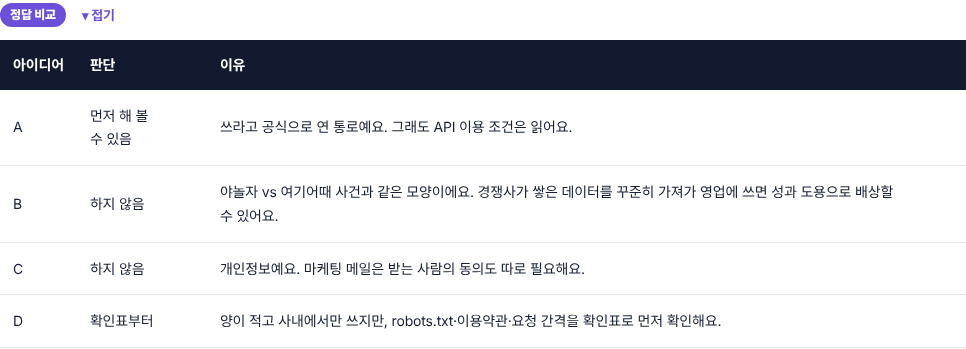
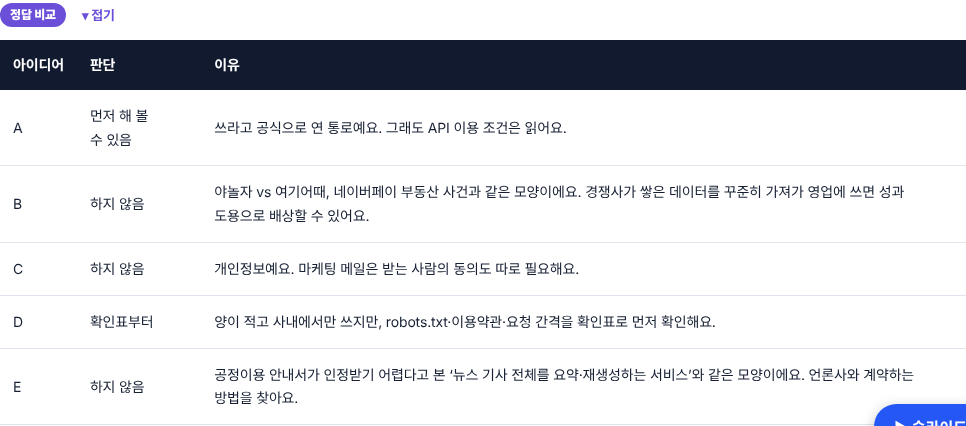
3주차 DAY2 1-2: 후속 판례(네이버페이 부동산·진학사-텐덤)와 공정이용 안내서 추가
Claude-Session: https://claude.ai/code/session_01C4uqyDbkmmtNJuE6af8rvj

diff --git a/261109-ai-pm-week3/d2-web-crawling.html b/261109-ai-pm-week3/d2-web-crawling.html
@@ -422,12 +422,22 @@ aside nav a.active{border-left-color:var(--blue)}
 <p class="source-note">형사: 대법원 2022. 5. 12. 선고 2021도1533 판결(무죄 확정). 민사: 서울중앙지방법원 2021. 8. 19. 1심 10억 원 배상 → 서울고등법원 2022. 8. 25. 2심도 배상 유지(2심은 1심의 복제 금지 명령은 취소). 민사 판결이 쓴 조항은 당시 부정경쟁방지법 제2조 제1호 (카)목이에요. 2022년 4월 법 개정으로 이 조항은 지금 (파)목으로 옮겨졌어요.</p>
 <div class="notice"><b>기억할 것</b><br/>형사에서 무죄라고 "해도 되는 일"이 되는 것은 아니에요. 경쟁사가 돈과 노력을 들여 쌓은 데이터를 가져다 내 영업에 쓰면, 민사에서 큰돈을 물어 줄 수 있어요.</div>
 
+<h4>그 뒤의 판례와 안내서: 기준이 더 분명해졌어요</h4>
+<p>여기어때 사건 뒤에도 비슷한 다툼이 이어졌어요. 그 결과 "공개된 사실이니까 괜찮다"는 생각만으로는 부족하다는 것이 더 분명해졌어요.</p>
+<div class="table-wrap"><table>
+<tr><th>시점</th><th>사건 · 문서</th><th>무엇을 판단했나</th><th>기획자에게 주는 뜻</th></tr>
+<tr><td>2025. 12.</td><td><b>네이버페이 부동산 vs 다윈중개</b><br/>(특허법원 2심, 민사)</td><td>다윈중개가 네이버페이 부동산의 매물 정보(가격·면적 등 12개 항목)를 약 4년 동안 주기적으로 모아 약 850개 단지, 25만 건을 자기 사이트에 올렸어요. 법원은 네이버 쪽이 매물을 모으고 허위 매물을 걸러 내는 데 큰 투자를 했다며 <b>데이터베이스제작자의 권리 침해</b>를 인정했어요. 배상액은 1심 7,000만 원에서 2심 <b>8,000만 원</b>으로 올랐고, 서버에 저장한 정보를 지우라는 명령도 나왔어요. 사이트 이용약관의 자동 수집 금지 조항도 판단에 고려했어요.</td><td>가격·면적 같은 숫자도 남이 투자해서 쌓은 데이터베이스를 꾸준히 옮겨 오면 권리 침해가 될 수 있어요. 여기어때 사건(일부 항목, 형사 무죄)과 달리, 이 사건은 양이 많고 오래 반복되었어요.</td></tr>
+<tr><td>2026. 2. 26.</td><td><b>「생성형 인공지능의 저작물 학습에 대한 저작권법상 ‘공정이용’ 안내서」</b><br/>(문화체육관광부·한국저작권위원회)</td><td>AI 학습에 남의 글을 쓸 때 공정이용인지 보는 기준이에요. 뉴스 기사 전체를 요약하거나 다시 만들어 주는 서비스는 공정이용으로 인정받기 어려운 쪽이에요. robots.txt로 막은 글을 모으거나, 로그인·유료로 막은 글을 허락 없이 모은 경우도 불리해요. 반대로 통계처럼 사실을 전하는 자료는 유리하게 봐요.</td><td>모은 글을 AI로 요약해 우리 화면에 다시 보여 주는 기능은 위험해요. 6세션에서 클로드로 모을 때도, 결과를 서비스 화면에 그대로 쓰는지 사내 분석에만 쓰는지 먼저 정해요. 안내서는 법이 아니라 참고 기준이에요.</td></tr>
+<tr><td>2026. 7. 9.</td><td><b>진학사 vs 텐덤 (대학 리뷰 데이터)</b><br/>(대법원, 민사)</td><td>업무 협약으로 받은 대학 리뷰 데이터를 협약 목적 밖으로 썼는지 다툰 사건이에요. 대법원은 노력과 비용을 들여 모은 <b>리뷰 데이터는 부정경쟁방지법이 지키는 ‘성과’</b>라고 봤어요. 하지만 상대 서비스에 그 리뷰가 실제로 쓰였다는 증거가 없어서, 책임을 인정한 2심 판결을 다시 판단하라고 돌려보냈어요. 흔한 방식으로 만든 API는 성과로 보지 않았어요.</td><td>상대가 투자해서 만든 데이터인지가 핵심이에요. 거꾸로 우리 데이터를 지키려면, 데이터를 모으는 데 쓴 비용·노력과 남이 가져다 쓴 흔적을 기록해 두어야 해요.</td></tr>
+</table></div>
+<p class="source-note">출처: 특허법원 2025. 12. 24. 선고 2024나11433 판결(<a href="https://file.scourt.go.kr/dcboard/1779236599426_092319.pdf" target="_blank" rel="noopener">법원 공개 판결문</a>, 원심 서울중앙지방법원 2022가합528041) · 법률신문 <a href="https://www.lawtimes.co.kr/news/articleView.html?idxno=228179" target="_blank" rel="noopener">대학 리뷰 데이터 무단 사용의 증명책임</a>(대법원 2026. 7. 9. 선고 2023다290355, 290362 판결 평석) · 법무법인 화우 <a href="https://www.hwawoo.com/kor/insights/newsletter/14627" target="_blank" rel="noopener">문체부 생성형 AI 공정이용 안내서 해설</a>(뉴스 기사 전체 요약·재생성 서비스, robots.txt로 금지된 저작물 무단 수집) (2026.11.10 확인)</p>
+
 <h4>크롤링과 관련된 법, 한 표로 보기</h4>
 <p>기획자는 법 조문을 외울 필요는 없어요. 어떤 기능이 어떤 법에 걸릴 수 있는지만 알면, 기획 단계에서 위험을 걸러 낼 수 있어요.</p>
 <div class="table-wrap"><table>
 <tr><th>구분</th><th>법</th><th>문제가 되는 경우</th><th>기획자가 확인할 질문</th></tr>
 <tr><td rowspan="3"><b>형사</b></td><td>정보통신망법</td><td>로그인이나 접근 차단 장치를 피해서 들어갈 때</td><td>로그인해야 보이는 정보를 모으는 기능인가요?</td></tr>
-<tr><td>저작권법 (데이터베이스제작자의 권리)</td><td>남의 데이터베이스에서 상당한 부분을 베낄 때. 조금씩이라도 반복해서 가져가 결국 상당한 부분을 가져간 것과 같아질 때</td><td>남의 데이터베이스를 통째로 옮기는 기능인가요?</td></tr>
+<tr><td>저작권법 (데이터베이스제작자의 권리)</td><td>남의 데이터베이스에서 상당한 부분을 베낄 때. 조금씩이라도 반복해서 가져가 결국 상당한 부분을 가져간 것과 같아질 때. 형사에서 무죄여도 민사에서 배상과 삭제 명령이 날 수 있어요(네이버페이 부동산 사건).</td><td>남의 데이터베이스를 통째로 옮기는 기능인가요?</td></tr>
 <tr><td>형법 (컴퓨터 등 장애 업무방해)</td><td>요청이 너무 많아 실제로 상대 서버에 장애가 생겼을 때</td><td>요청 간격과 횟수 제한을 기획서에 적었나요?</td></tr>
 <tr><td rowspan="4"><b>민사</b></td><td>부정경쟁방지법 (성과 도용, (파)목)</td><td>경쟁사가 투자해서 만든 데이터를 허락 없이 가져가 내 영업에 쓸 때</td><td>경쟁사 데이터가 우리 서비스의 핵심 재료인가요?</td></tr>
 <tr><td>부정경쟁방지법 (데이터 부정사용, (카)목, 2022. 4. 20. 시행)</td><td>회원이나 계약한 사람에게만 주는 데이터를 부정한 방법으로 가져가거나 쓸 때</td><td>유료 회원이나 제휴사에게만 주는 데이터인가요?</td></tr>
@@ -443,35 +453,41 @@ aside nav a.active{border-left-color:var(--blue)}
 <a class="resource-card" href="https://v.daum.net/v/20220826110606958" target="_blank" rel="noopener"><span class="small">다음 뉴스 · 2022-08-26 보도</span><b>'야놀자 vs 여기어때' 숙박업체 소송…2심도 '크롤링' 불법 판정</b><span class="small">서울고법이 10억 원 배상을 유지하면서, 공개된 정보라도 마음대로 베껴도 되는 공공의 것은 아니라고 본 2심 판결 기사예요.</span></a>
 <a class="resource-card" href="https://v.daum.net/v/Fi3RbZBWW5" target="_blank" rel="noopener"><span class="small">한국경제 · 2024-04-24 보도</span><b>'여기어때' 사건으로 살펴본 '크롤링'의 적법성</b><span class="small">형사 무죄와 민사 배상이 갈린 이유를 변호사가 풀어 쓰고, 사람인 vs 잡코리아 사건도 함께 다룬 칼럼이에요.</span></a>
 <a class="resource-card" href="https://www.bizhankook.com/bk/article/27377" target="_blank" rel="noopener"><span class="small">비즈한국 · 2024-04-01 보도</span><b>구직앱이 경쟁사의 채용정보 허락 없이 가져오면 처벌 받을까</b><span class="small">크롤링 분쟁에서 형사 고소보다 부정경쟁방지법 민사 소송이 실제로 쓰이는 이유를 정리한 칼럼이에요.</span></a>
+<a class="resource-card" href="https://www.etnews.com/20260102000213" target="_blank" rel="noopener"><span class="small">전자신문 · 2026-01-04 보도</span><b>네이버페이, ‘부동산 매물 크롤링’ 2심도 승소…손배 8000만원</b><span class="small">매물 정보를 반복해서 옮겨 온 다윈중개에 배상과 저장 정보 삭제를 명령한 특허법원 2심 판결 기사예요.</span></a>
+<a class="resource-card" href="https://www.mt.co.kr/culture/2026/02/26/2026022610241060633" target="_blank" rel="noopener"><span class="small">머니투데이 · 2026-02-26 보도</span><b>문체부, 생성형 AI 공정이용 안내서 발간…‘저작권 기준 세운다’</b><span class="small">AI 학습의 공정이용을 네 가지 요소로 따지며, 크롤링이라고 무조건 빠지지는 않는다는 안내서 발간 소식이에요.</span></a>
+<a class="resource-card" href="https://magazine.hankyung.com/business/article/202608313777b" target="_blank" rel="noopener"><span class="small">한경비즈니스 · 2026-08-31 보도</span><b>대법, 진학사-텐덤 부정경쟁행위 금지 소송 파기 환송</b><span class="small">리뷰 데이터는 성과로 보되, 실제로 썼다는 증거가 필요하다고 본 대법원 판결 기사예요.</span></a>
 <a class="resource-card" href="https://byline.network/2025/07/28-500/" target="_blank" rel="noopener"><span class="small">바이라인네트워크 · 2025-07-28 보도</span><b>법원 "마이리얼트립이 민다에 1억5000만원 배상하라"</b><span class="small">크롤링은 아니지만, 예약을 해야만 보이는 숙소 주인 연락처를 허위 예약으로 얻어 영업에 쓴 일에 배상 판결이 난 사건이에요.</span></a>
 </div>
 
 <h4>기획서에 넣는 크롤링 확인 질문</h4>
-<p>외부 데이터를 쓰는 기능을 기획할 때, 기획서에 아래 다섯 가지를 먼저 적어요. 하나라도 "예"가 나오면 법무 검토를 받거나 다른 방법을 찾아요.</p>
+<p>외부 데이터를 쓰는 기능을 기획할 때, 기획서에 아래 여섯 가지를 먼저 적어요. 하나라도 "예"가 나오면 법무 검토를 받거나 다른 방법을 찾아요.</p>
 <ul class="checklist">
 <li>로그인·예약·결제를 해야 보이는 정보를 모으나요?</li>
 <li>봇 차단이나 캡차(로봇인지 확인하는 장치)를 피해 가야 모을 수 있나요?</li>
 <li>경쟁사의 데이터베이스를 통째로, 또는 꾸준히 가져가 우리 서비스의 핵심 재료로 쓰나요?</li>
 <li>이름·연락처·이메일·아이디 같은 개인정보가 섞여 있나요?</li>
+<li>모은 글을 AI로 요약하거나 다시 써서 우리 서비스 화면에 보여 주나요?</li>
 <li>요청 간격과 하루 요청 횟수를 정하지 않았나요?</li>
 </ul>
 <p>다른 방법으로는 사이트가 공식으로 제공하는 API, 데이터 제휴 계약, 공공데이터포털처럼 처음부터 쓰라고 공개한 데이터가 있어요. 반대로 우리 서비스의 데이터를 지킬 때도 같은 기준을 써요. 이용약관에 자동 수집 금지 문장을 넣고, API에 인증과 요청 횟수 제한을 두는 것도 기획자가 기획서에 적을 일이에요.</p>
 
-<p><b>STEP 1. 기능 아이디어 네 개를 위험도로 나누기</b></p>
-<p>아래 네 아이디어를 읽고, 각각 '먼저 해 볼 수 있음', '확인표부터', '하지 않음' 가운데 하나로 나눠요. 고른 다음 정답과 비교해요.</p>
+<p><b>STEP 1. 기능 아이디어 다섯 개를 위험도로 나누기</b></p>
+<p>아래 다섯 아이디어를 읽고, 각각 '먼저 해 볼 수 있음', '확인표부터', '하지 않음' 가운데 하나로 나눠요. 고른 다음 정답과 비교해요.</p>
 <div class="table-wrap"><table class="tpl">
 <tr><th>아이디어</th><th>나의 판단</th></tr>
 <tr><td>A. 공공데이터포털에서 공식 API로 숙박 정보를 받아 지도에 보여 주기</td><td></td></tr>
 <tr><td>B. 경쟁 앱 서버에 매일 접속해 전국 숙박업소 정보와 가격을 모아 우리 영업 자료로 쓰기</td><td></td></tr>
 <tr><td>C. 커뮤니티 게시판에서 글쓴이 닉네임과 이메일을 모아 마케팅 메일 보내기</td><td></td></tr>
 <tr><td>D. 온라인 서점 책 다섯 권의 가격을 하루 한 번, 1초 간격으로 모아 사내 시장 조사에만 쓰기</td><td></td></tr>
+<tr><td>E. 뉴스 사이트 기사 전체를 매일 모아 AI로 요약해서 우리 앱 화면에 보여 주기</td><td></td></tr>
 </table></div>
 <details class="res-toggle"><summary><span class="blk k-res"><span>정답 비교</span></span><span class="tg"></span></summary>
 <div class="table-wrap"><table><tr><th>아이디어</th><th>판단</th><th>이유</th></tr>
 <tr><td>A</td><td>먼저 해 볼 수 있음</td><td>쓰라고 공식으로 연 통로예요. 그래도 API 이용 조건은 읽어요.</td></tr>
-<tr><td>B</td><td>하지 않음</td><td>야놀자 vs 여기어때 사건과 같은 모양이에요. 경쟁사가 쌓은 데이터를 꾸준히 가져가 영업에 쓰면 성과 도용으로 배상할 수 있어요.</td></tr>
+<tr><td>B</td><td>하지 않음</td><td>야놀자 vs 여기어때, 네이버페이 부동산 사건과 같은 모양이에요. 경쟁사가 쌓은 데이터를 꾸준히 가져가 영업에 쓰면 성과 도용으로 배상할 수 있어요.</td></tr>
 <tr><td>C</td><td>하지 않음</td><td>개인정보예요. 마케팅 메일은 받는 사람의 동의도 따로 필요해요.</td></tr>
 <tr><td>D</td><td>확인표부터</td><td>양이 적고 사내에서만 쓰지만, robots.txt·이용약관·요청 간격을 확인표로 먼저 확인해요.</td></tr>
+<tr><td>E</td><td>하지 않음</td><td>공정이용 안내서가 인정받기 어렵다고 본 ‘뉴스 기사 전체를 요약·재생성하는 서비스’와 같은 모양이에요. 언론사와 계약하는 방법을 찾아요.</td></tr>
 </table></div>
 </details>
 <p class="source-note">이 내용은 수업을 위해 정리한 것이고 법률 자문이 아니에요. 실제 서비스에 넣을 기능은 법무 검토를 받아요.</p>
@@ -839,7 +855,8 @@ aside nav a.active{border-left-color:var(--blue)}
 <p><b>오늘의 규칙</b></p>
 <ul class="checklist">
 <li>모으기 전에 robots.txt·이용약관·개인정보·요청 간격을 확인한다. robots.txt는 부탁이고, 지키는 것은 모으는 사람의 몫이다</li>
-<li>형사에서 무죄여도 민사 책임은 따로 있다. 경쟁사가 쌓은 데이터를 꾸준히 가져가 영업에 쓰면 배상할 수 있다(야놀자 vs 여기어때, 10억 원)</li>
+<li>형사에서 무죄여도 민사 책임은 따로 있다. 경쟁사가 쌓은 데이터를 꾸준히 가져가 영업에 쓰면 배상할 수 있다(야놀자 vs 여기어때 10억 원, 네이버페이 부동산 8,000만 원과 삭제 명령)</li>
+<li>모은 글을 AI로 요약해 서비스 화면에 다시 보여 주는 기능은 공정이용으로 인정받기 어렵다</li>
 <li>화면 글자가 아니라 HTML의 이름표에서 값을 가져온다</li>
 <li>한 페이지로 먼저 맞는지 보고, 페이지를 늘릴 때는 1초 이상 쉬어 간다</li>
 <li>원본은 두고 정리본을 만든다. 판단할 수 없는 줄은 지우지 않고 '확인 필요'로 표시한다</li>
